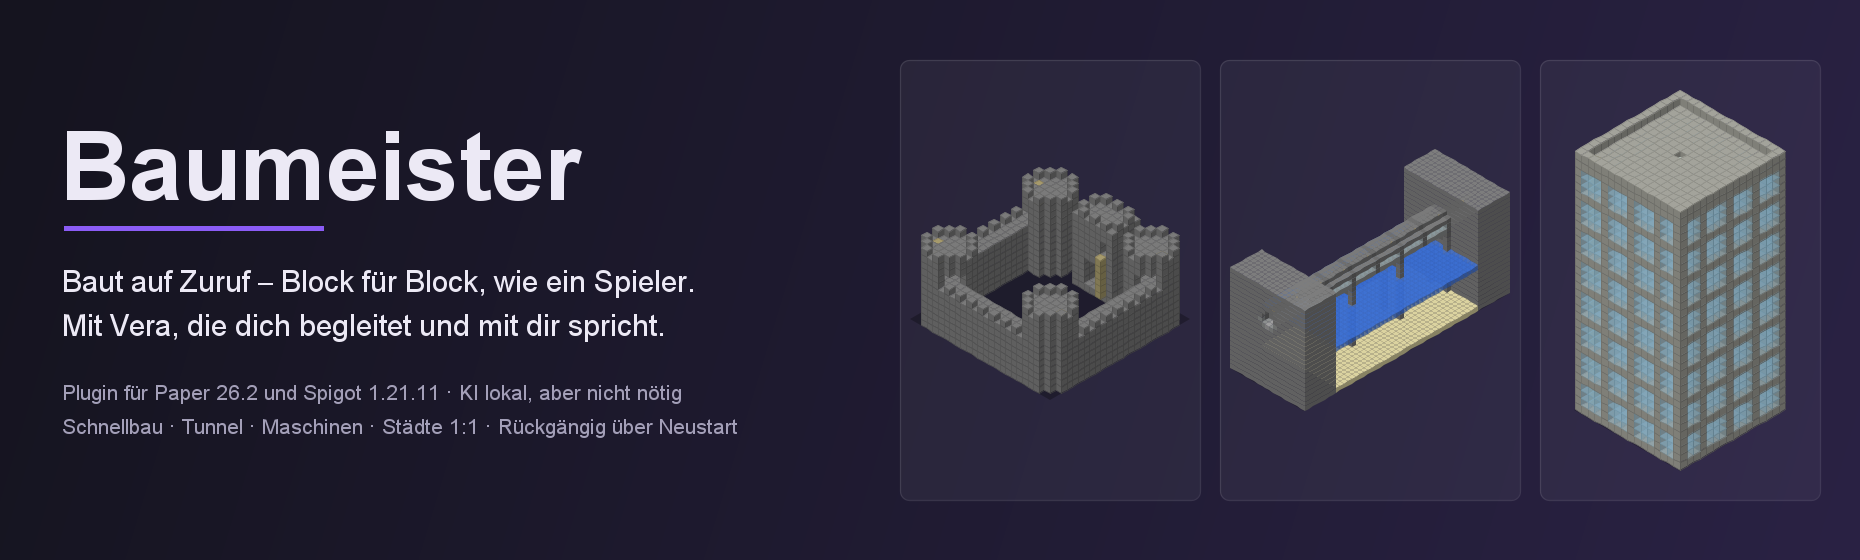
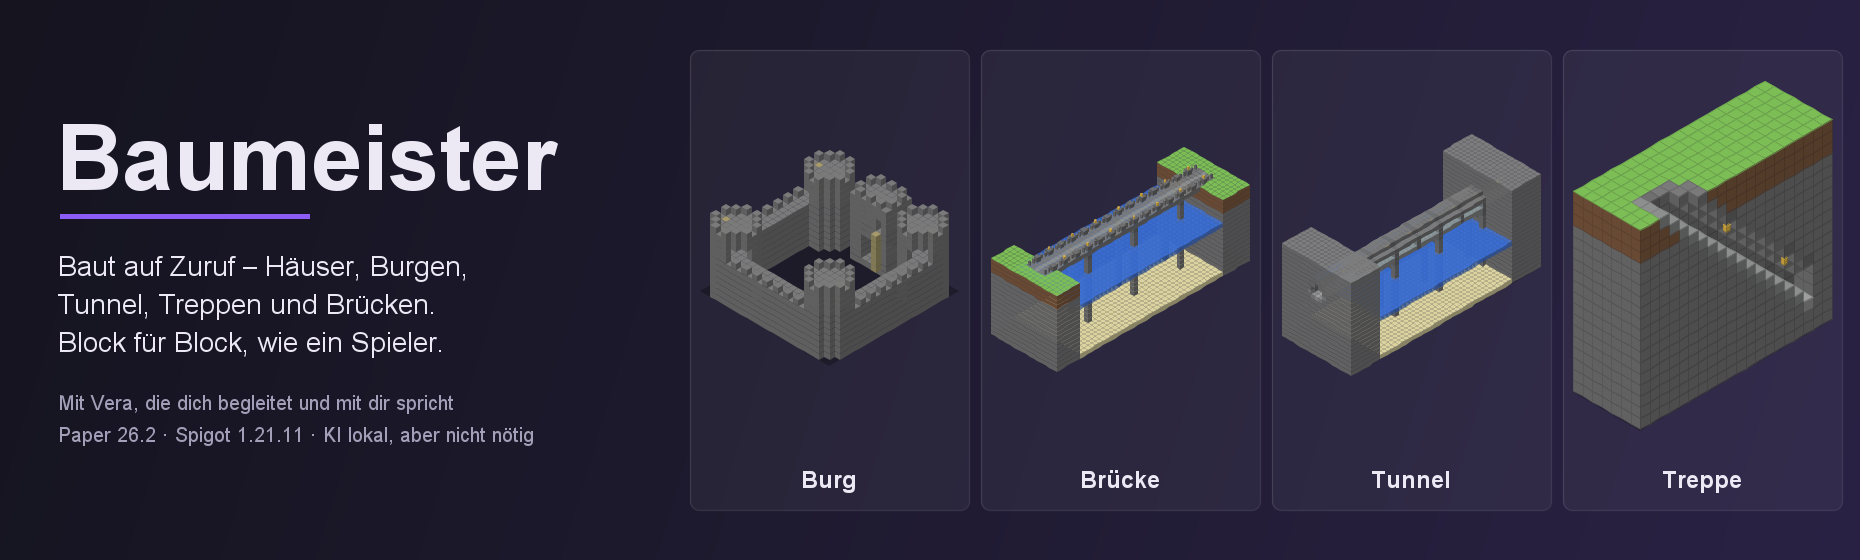
docs: Tunnel, Treppen und Brücken auf der Startseite des Repos
Hinweis des Nutzers: „du hast die brücken, tunnel und treppen vergessen … im git repo“. Oben auf GitHub kamen sie
kaum vor: Der Leitsatz nannte sie nicht, das Kopfbild zeigte Burg, Röhre und Hochhaus ohne Namen, und das Handbuch
hatte keinen Sprung ins Kapitel. Jetzt nennt der Leitsatz Häuser, Burgen, Tunnel, Treppen und Brücken, das Kopfbild
zeigt Burg, Brücke, Tunnel und Treppe mit Namen (echte Pläne aus QuickOrders und TunnelShape), das Tunnelbild steht
direkt nach der Liste, und README und Handbuch springen ins Kapitel (im Handbuch dazu Maschinen und Begleiter).

Gegenproben:
- Linkprüfung über README und docs: 0 Fehler (der Prüfer meldet absichtlich kaputte Ziele, siehe e05437e);
  Kopfbild zweimal gerendert, Byte für Byte gleich.

diff --git a/src/test/java/com/blackn0va/baumeister/bilder/ReadmeBilder.java b/src/test/java/com/blackn0va/baumeister/bilder/ReadmeBilder.java
@@ -94,32 +94,45 @@ public final class ReadmeBilder {
     // ------------------------------------------------------------------ Kopfbild
 
     /**
-     * Kopfbild des README (2026-11-19): Name, Satz, drei echte Bauten – Burg und Hochhaus aus QuickOrders, die Röhre
-     * über den See aus TunnelShape.
+     * Kopfbild des README: Name, Satz und vier echte Bauten mit Namen – Burg aus QuickOrders, Brücke, Tunnelröhre und
+     * Treppe aus TunnelShape. Vorher (2026-11-19, erster Entwurf) Burg, Röhre und Hochhaus ohne Namen; Hinweis des
+     * Nutzers „du hast die brücken, tunnel und treppen vergessen … im git repo“: Auf der Startseite kamen sie kaum
+     * vor.
      */
     static void banner(Path file) throws Exception {
         BufferedImage img = new BufferedImage(1860, 560, BufferedImage.TYPE_INT_ARGB);
         Graphics2D g = canvas(img);
         g.setColor(TEXT);
-        g.setFont(new Font(Font.SANS_SERIF, Font.BOLD, 96));
-        g.drawString("Baumeister", 60, 200);
+        g.setFont(new Font(Font.SANS_SERIF, Font.BOLD, 92));
+        g.drawString("Baumeister", 56, 190);
         g.setColor(ACCENT);
-        g.fillRect(64, 226, 260, 5);
+        g.fillRect(60, 214, 250, 5);
         g.setColor(TEXT);
-        g.setFont(new Font(Font.SANS_SERIF, Font.PLAIN, 30));
-        g.drawString("Baut auf Zuruf – Block für Block, wie ein Spieler.", 62, 292);
-        g.drawString("Mit Vera, die dich begleitet und mit dir spricht.", 62, 336);
+        g.setFont(new Font(Font.SANS_SERIF, Font.PLAIN, 28));
+        g.drawString("Baut auf Zuruf – Häuser, Burgen,", 58, 276);
+        g.drawString("Tunnel, Treppen und Brücken.", 58, 314);
+        g.drawString("Block für Block, wie ein Spieler.", 58, 352);
         g.setColor(MUTED);
-        g.setFont(new Font(Font.SANS_SERIF, Font.PLAIN, 21));
-        g.drawString("Plugin für Paper 26.2 und Spigot 1.21.11 · KI lokal, aber nicht nötig", 62, 400);
-        g.drawString("Schnellbau · Tunnel · Maschinen · Städte 1:1 · Rückgängig über Neustart", 62, 434);
-        TunnelBilder.Scene tube = TunnelBilder.scenes().get(1);
-        tile(g, 900, 60, 300, 440);
-        iso(g, quick("eine Burg"), 910, 90, 280, 380);
-        tile(g, 1220, 60, 300, 440);
-        iso(g, tube.cells(), 1230, 90, 280, 380);
-        tile(g, 1540, 60, 280, 440);
-        iso(g, quick("ein Hochhaus mit 8 Stockwerken"), 1550, 90, 260, 380);
+        g.setFont(new Font(Font.SANS_SERIF, Font.PLAIN, 20));
+        g.drawString("Mit Vera, die dich begleitet und mit dir spricht", 58, 410);
+        g.drawString("Paper 26.2 · Spigot 1.21.11 · KI lokal, aber nicht nötig", 58, 442);
+        List<TunnelBilder.Scene> sc = TunnelBilder.scenes();
+        List<Map.Entry<String, Map<Pos, BlockSpec>>> shots = List.of(
+                Map.entry("Burg", quick("eine Burg")),
+                Map.entry("Brücke", sc.get(4).cells()),
+                Map.entry("Tunnel", sc.get(1).cells()),
+                Map.entry("Treppe", sc.get(2).cells()));
+        int x = 690;
+        int w = 279;
+        for (Map.Entry<String, Map<Pos, BlockSpec>> s : shots) {
+            tile(g, x, 50, w, 460);
+            iso(g, s.getValue(), x + 10, 70, w - 20, 370);
+            g.setColor(TEXT);
+            g.setFont(new Font(Font.SANS_SERIF, Font.BOLD, 24));
+            int tw = g.getFontMetrics().stringWidth(s.getKey());
+            g.drawString(s.getKey(), x + (w - tw) / 2, 488);
+            x += w + 12;
+        }
         g.dispose();
         ImageIO.write(img, "png", file.toFile());
     }

diff --git a/README.md b/README.md
@@ -1,9 +1,9 @@
 <div align="center">
 
-<img src="docs/bilder/banner.png" alt="Baumeister: eine Burg, eine Tunnelröhre über einem See und ein Hochhaus – echte Pläne des Plugins" width="100%">
+<img src="docs/bilder/banner.png" alt="Baumeister: Burg, Brücke, Tunnel und Treppe – echte Pläne des Plugins" width="100%">
 
-**Ein Minecraft-Plugin mit einem Baumeister, der auf Zuruf baut – Block für Block, wie ein Spieler –
-und mit Vera, einer Begleiterin, die mit dir spricht.**
+**Ein Minecraft-Plugin mit einem Baumeister, der auf Zuruf baut – Häuser, Burgen, Tunnel, Treppen und Brücken,
+Block für Block wie ein Spieler – und mit Vera, einer Begleiterin, die mit dir spricht.**
 
 ![Paper](https://img.shields.io/badge/Paper%20%C2%B7%20Spigot-1.21.11%20%C2%B7%2026.2-orange)
 ![Java](https://img.shields.io/badge/Java-21-blue)
@@ -11,9 +11,10 @@ und mit Vera, einer Begleiterin, die mit dir spricht.**
 ![Host](https://img.shields.io/badge/Host-C%2B%2B20%20%C2%B7%20Qt%206-8b5cf6)
 ![Lizenz](https://img.shields.io/badge/Lizenz-GPL--3.0--or--later-blue)
 
-[Wo anfangen](#wo-fange-ich-an) · [Was es kann](#was-es-kann) · [Was geht, was noch nicht](#was-geht-was-noch-nicht) ·
-[So funktioniert's](#so-funktionierts) · [Loslegen](#loslegen) · [Befehle](#die-wichtigsten-befehle) ·
-[Für Entwickler](#für-entwickler) · [Mitmachen](#mitmachen)
+[Wo anfangen](#wo-fange-ich-an) · [Was es kann](#was-es-kann) ·
+[Tunnel, Treppen, Brücken](docs/spielen.md#tunnel-treppen-und-brücken) ·
+[Was geht, was noch nicht](#was-geht-was-noch-nicht) · [So funktioniert's](#so-funktionierts) · [Loslegen](#loslegen) ·
+[Befehle](#die-wichtigsten-befehle) · [Für Entwickler](#für-entwickler) · [Mitmachen](#mitmachen)
 
 </div>
 
@@ -46,9 +47,9 @@ Alle Dokumente auf einen Blick: [docs/](docs/README.md).
 - **Für alle Spieler.** Hilfebuch zum Anklicken, Rucksack mit Teamkisten, Warps, Tagesaufgaben, Mods-Download.
 - **Nichts geht verloren.** Rückgängig für die letzten 50 Bauten, auch nach einem Neustart.
 
-<img src="docs/bilder/schnellbau.png" alt="Sechs Bauwerke, die der Baumeister ohne KI sofort baut: Pyramide, Burg, Hochhaus, Bogenbrücke, Garten, Tanne" width="100%">
-
 <img src="docs/bilder/tunnel.png" alt="Tunnel im Fels, Röhre über einen See, Treppe nach oben und nach unten, Brücke übers Wasser und ein großer Tunnel im Tiefenschiefer – echte Pläne aus TunnelShape" width="100%">
+
+<img src="docs/bilder/schnellbau.png" alt="Sechs Bauwerke, die der Baumeister ohne KI sofort baut: Pyramide, Burg, Hochhaus, Bogenbrücke, Garten, Tanne" width="100%">
 
 <table>
 <tr>

diff --git a/docs/handbuch.md b/docs/handbuch.md
@@ -7,7 +7,7 @@
 
 ![Paper](https://img.shields.io/badge/Paper-26.2-orange) ![Java](https://img.shields.io/badge/Java-21%20%C2%B7%20Server%2025-blue) ![C++](https://img.shields.io/badge/Host-C%2B%2B20%20%C2%B7%20Qt%206-8b5cf6) ![LLM](https://img.shields.io/badge/LLM-llama.cpp%20lokal-green) ![GPU](https://img.shields.io/badge/GPU-Vulkan%20%C2%B7%20CUDA-76b900)
 
-[Installation](installation.md) · [Schematics](schematics.md) · [Aufbau](#aufbau) · [Ablauf](#ablauf) · [Starten](#starten) · [Befehle](#befehle) · [Bauplan](#bauplan) · [Logik](#logik-schaltungen-aus-formeln) · [Komfort](#komfort) · [Gelände](#gelände-11) · [Erde](#die-ganze-erde-11) · [Städte](#städte-und-dörfer-11) · [Betrieb](#betrieb) · [Sicherheit](#sicherheit) · [Eigenes Modell](#eigenes-modell) · [Bauen](#bauen-und-testen) · [Stand](#stand)
+[Installation](installation.md) · [Schematics](schematics.md) · [Aufbau](#aufbau) · [Ablauf](#ablauf) · [Starten](#starten) · [Befehle](#befehle) · [Bauplan](#bauplan) · [Maschinen](#maschinen) · [Tunnel, Treppen, Brücken](#tunnel-treppen-und-brücken) · [Logik](#logik-schaltungen-aus-formeln) · [Begleiter](#begleiter) · [Komfort](#komfort) · [Gelände](#gelände-11) · [Erde](#die-ganze-erde-11) · [Städte](#städte-und-dörfer-11) · [Betrieb](#betrieb) · [Sicherheit](#sicherheit) · [Eigenes Modell](#eigenes-modell) · [Bauen](#bauen-und-testen) · [Stand](#stand)
 
 </div>
 
